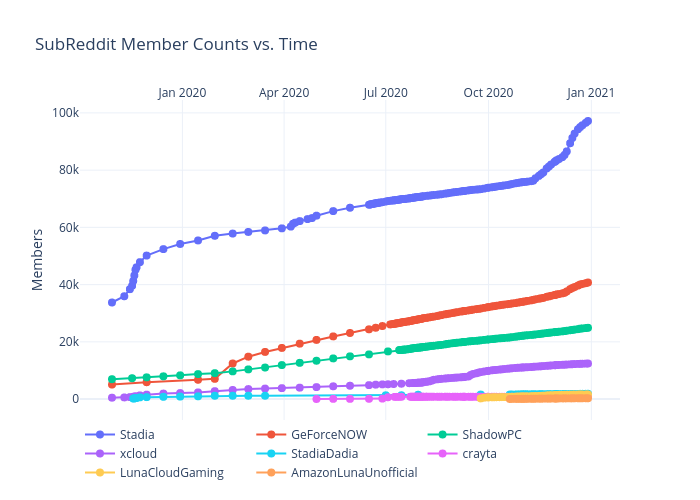
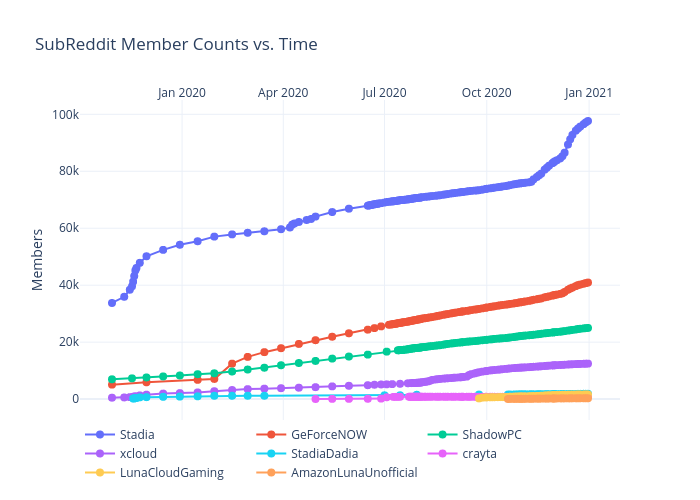
Add files via upload

diff --git a/reddit/figure.js b/reddit/figure.js
@@ -151,7 +151,20 @@ var figure = {
                 "2020-12-27",
                 "2020-12-29",
                 "2020-12-31",
-                "2021-01-03"
+                "2021-01-03",
+                "2021-01-05",
+                "2021-01-07",
+                "2021-01-10",
+                "2021-01-12",
+                "2021-01-14",
+                "2021-01-17",
+                "2021-01-19",
+                "2021-01-21",
+                "2021-01-24",
+                "2021-01-26",
+                "2021-01-28",
+                "2021-01-31",
+                "2021-02-02"
             ],
             "ysrc": "jdeslip:354:352ddd",
             "y": [
@@ -292,7 +305,8 @@ var figure = {
                 "95032",
                 "95682",
                 "96535",
-                "97164"
+                "97164",
+                "97656"
             ],
             "marker": {
                 "size": 8
@@ -452,7 +466,20 @@ var figure = {
                 "2020-12-27",
                 "2020-12-29",
                 "2020-12-31",
-                "2021-01-03"
+                "2021-01-03",
+                "2021-01-05",
+                "2021-01-07",
+                "2021-01-10",
+                "2021-01-12",
+                "2021-01-14",
+                "2021-01-17",
+                "2021-01-19",
+                "2021-01-21",
+                "2021-01-24",
+                "2021-01-26",
+                "2021-01-28",
+                "2021-01-31",
+                "2021-02-02"
             ],
             "ysrc": "jdeslip:354:765f0d",
             "y": [
@@ -593,7 +620,8 @@ var figure = {
                 "40038",
                 "40222",
                 "40496",
-                "40729"
+                "40729",
+                "40928"
             ],
             "marker": {
                 "size": 8
@@ -753,7 +781,20 @@ var figure = {
                 "2020-12-27",
                 "2020-12-29",
                 "2020-12-31",
-                "2021-01-03"
+                "2021-01-03",
+                "2021-01-05",
+                "2021-01-07",
+                "2021-01-10",
+                "2021-01-12",
+                "2021-01-14",
+                "2021-01-17",
+                "2021-01-19",
+                "2021-01-21",
+                "2021-01-24",
+                "2021-01-26",
+                "2021-01-28",
+                "2021-01-31",
+                "2021-02-02"
             ],
             "ysrc": "jdeslip:354:53bec5",
             "y": [
@@ -894,7 +935,8 @@ var figure = {
                 "24619",
                 "24689",
                 "24825",
-                "24914"
+                "24914",
+                "24991"
             ],
             "marker": {
                 "size": 8
@@ -1054,7 +1096,20 @@ var figure = {
                 "2020-12-27",
                 "2020-12-29",
                 "2020-12-31",
-                "2021-01-03"
+                "2021-01-03",
+                "2021-01-05",
+                "2021-01-07",
+                "2021-01-10",
+                "2021-01-12",
+                "2021-01-14",
+                "2021-01-17",
+                "2021-01-19",
+                "2021-01-21",
+                "2021-01-24",
+                "2021-01-26",
+                "2021-01-28",
+                "2021-01-31",
+                "2021-02-02"
             ],
             "ysrc": "jdeslip:354:bbe218",
             "y": [
@@ -1195,7 +1250,8 @@ var figure = {
                 "12329",
                 "12345",
                 "12397",
-                "12428"
+                "12428",
+                "12458"
             ],
             "marker": {
                 "size": 8
@@ -1355,7 +1411,20 @@ var figure = {
                 "2020-12-27",
                 "2020-12-29",
                 "2020-12-31",
-                "2021-01-03"
+                "2021-01-03",
+                "2021-01-05",
+                "2021-01-07",
+                "2021-01-10",
+                "2021-01-12",
+                "2021-01-14",
+                "2021-01-17",
+                "2021-01-19",
+                "2021-01-21",
+                "2021-01-24",
+                "2021-01-26",
+                "2021-01-28",
+                "2021-01-31",
+                "2021-02-02"
             ],
             "ysrc": "jdeslip:354:fc3607",
             "y": [
@@ -1496,7 +1565,8 @@ var figure = {
                 "1843",
                 "1845",
                 "1854",
-                "1857"
+                "1857",
+                "1863"
             ],
             "marker": {
                 "size": 8
@@ -1656,7 +1726,20 @@ var figure = {
                 "2020-12-27",
                 "2020-12-29",
                 "2020-12-31",
-                "2021-01-03"
+                "2021-01-03",
+                "2021-01-05",
+                "2021-01-07",
+                "2021-01-10",
+                "2021-01-12",
+                "2021-01-14",
+                "2021-01-17",
+                "2021-01-19",
+                "2021-01-21",
+                "2021-01-24",
+                "2021-01-26",
+                "2021-01-28",
+                "2021-01-31",
+                "2021-02-02"
             ],
             "ysrc": "jdeslip:354:b0f678",
             "y": [
@@ -1797,7 +1880,8 @@ var figure = {
                 "807",
                 "810",
                 "811",
-                "809"
+                "809",
+                "812"
             ],
             "marker": {
                 "size": 8
@@ -1957,7 +2041,20 @@ var figure = {
                 "2020-12-27",
                 "2020-12-29",
                 "2020-12-31",
-                "2021-01-03"
+                "2021-01-03",
+                "2021-01-05",
+                "2021-01-07",
+                "2021-01-10",
+                "2021-01-12",
+                "2021-01-14",
+                "2021-01-17",
+                "2021-01-19",
+                "2021-01-21",
+                "2021-01-24",
+                "2021-01-26",
+                "2021-01-28",
+                "2021-01-31",
+                "2021-02-02"
             ],
             "ysrc": "jdeslip:354:80eed8",
             "y": [
@@ -2098,7 +2195,8 @@ var figure = {
                 "1603",
                 "1602",
                 "1605",
-                "1616"
+                "1616",
+                "1624"
             ],
             "marker": {
                 "size": 8
@@ -2258,7 +2356,20 @@ var figure = {
                 "2020-12-27",
                 "2020-12-29",
                 "2020-12-31",
-                "2021-01-03"
+                "2021-01-03",
+                "2021-01-05",
+                "2021-01-07",
+                "2021-01-10",
+                "2021-01-12",
+                "2021-01-14",
+                "2021-01-17",
+                "2021-01-19",
+                "2021-01-21",
+                "2021-01-24",
+                "2021-01-26",
+                "2021-01-28",
+                "2021-01-31",
+                "2021-02-02"
             ],
             "ysrc": "jdeslip:354:11713d",
             "y": [
@@ -2399,7 +2510,8 @@ var figure = {
                 "284",
                 "286",
                 "290",
-                "291"
+                "291",
+                "293"
             ],
             "marker": {
                 "size": 8
@@ -2417,8 +2529,8 @@ var figure = {
             "side": "top",
             "type": "date",
             "range": [
-                "2019-10-03 15:51:19.616",
-                "2021-01-24 08:08:40.384"
+                "2019-10-03 12:53:15.4828",
+                "2021-01-26 11:06:44.5172"
             ],
             "title": {
                 "text": ""
@@ -2428,8 +2540,8 @@ var figure = {
         "yaxis": {
             "type": "linear",
             "range": [
-                -6916.914627123525,
-                104113.91462712352
+                -9183.157342657343,
+                106872.15734265734
             ],
             "title": {
                 "text": "Members"
